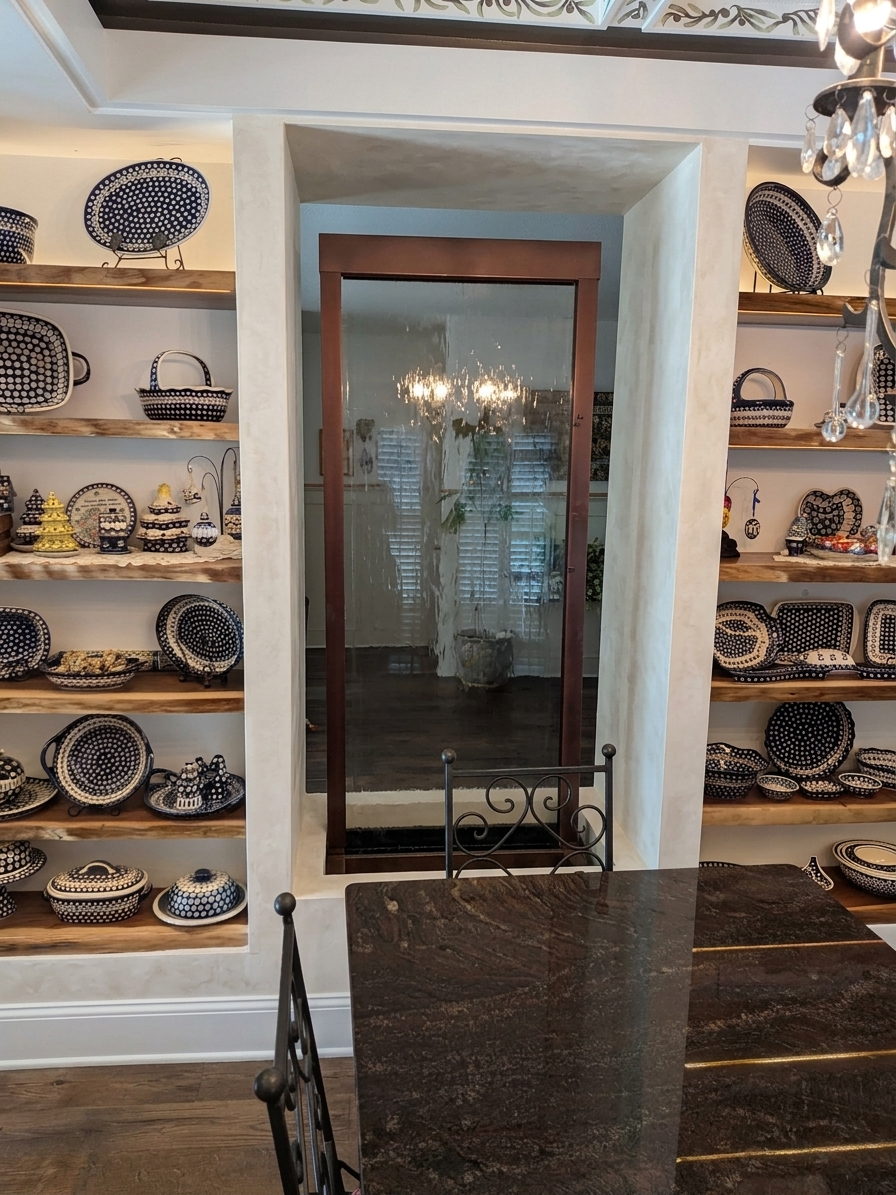
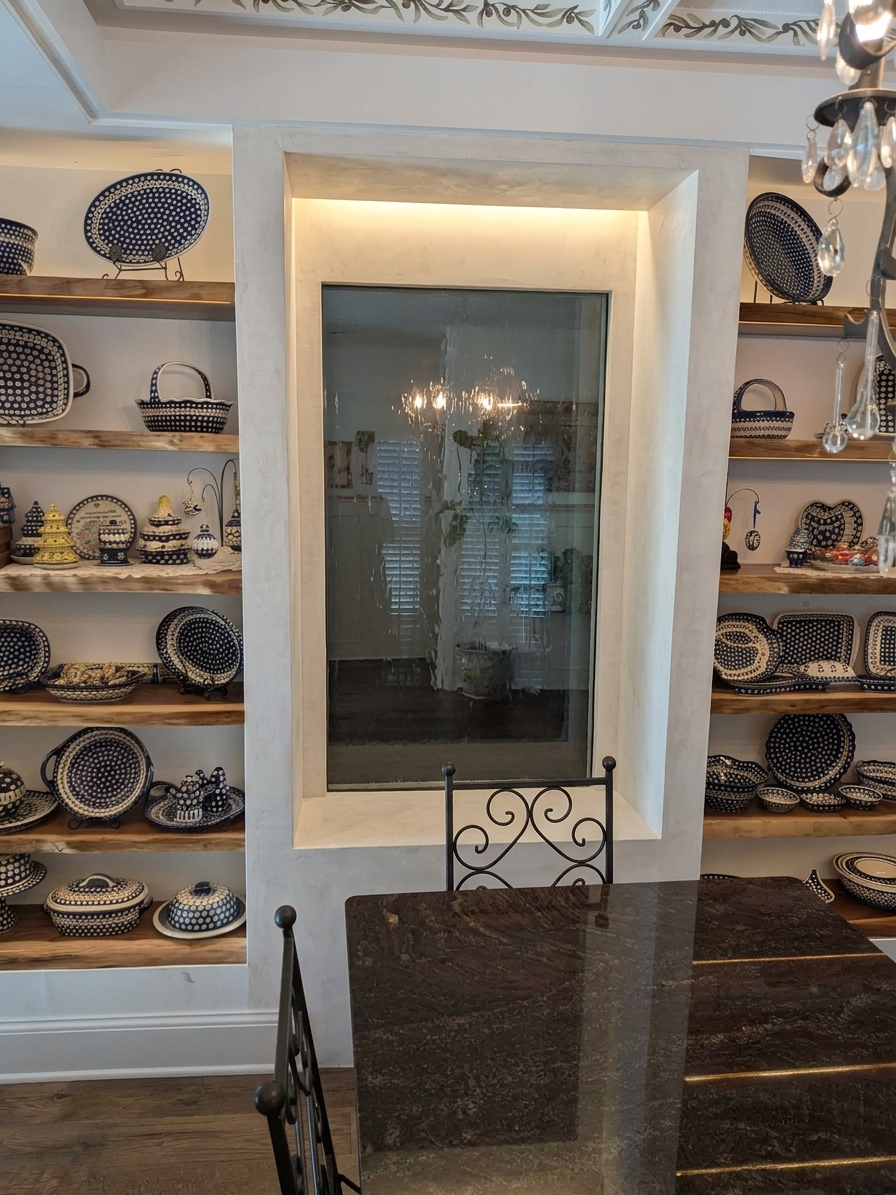
Christina waterfall v2: dining-side plasters redrawn as the same wrapped box as the front (frame hidden, returns to the glass)
Claude-Session: https://claude.ai/code/session_01YXcUTCVaxQYCoghA18zKvq

diff --git a/assets/quotes/christina-waterfall-v2/index.html b/assets/quotes/christina-waterfall-v2/index.html
@@ -52,7 +52,7 @@ footer{text-align:center;color:var(--muted);font-size:14px;padding:22px 0 0}
     <div class="grid2" style="padding-top:10px"><div><img src="/assets/quotes/christina-waterfall/21-dining-limewash.jpg" alt="Dining side in off-white limewash"><p><b>C · Limewash, off-white</b></p></div><div><img src="/assets/quotes/christina-waterfall/before-dining.jpg" alt="The dining side today"><p style="color:var(--muted)">Today</p></div></div>
     <div class="b">
     <h2>Hand-troweled plaster around the opening</h2>
-    <p>The two side walls, the header above and a low plinth in front of the basin, all in one continuous plaster finish, with the bronze frame left showing and the grasses out. Three looks: <b>tadelakt</b> is Moroccan lime plaster burnished to a soft sheen and sealed so it shrugs off splash; <b>Roman clay</b> is matte and velvety with visible trowel movement; <b>limewash</b> is the quietest, chalky and pale, and nearly disappears behind your pottery.</p>
+    <p>Built exactly like the living-room side: the plaster wraps the opening, returns to the edge of the glass on both sides and across the top, hides the bronze frame and the basin, and has the light in the top. Same box, different skin. Three looks: <b>tadelakt</b> is Moroccan lime plaster burnished to a soft sheen and sealed so it shrugs off splash; <b>Roman clay</b> is matte and velvety with visible trowel movement; <b>limewash</b> is the quietest, chalky and pale, and nearly disappears behind your pottery.</p>
     <p><b>Good to know:</b> plaster is done by hand, so the movement in it is the point. We do a sample board in your room before the first coat goes on.</p>
   </div></div>
 
